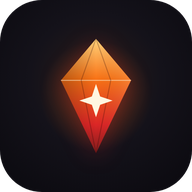
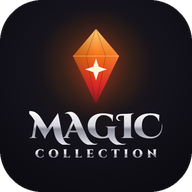
App-Symbol mit Schriftzug „MAGIC COLLECTION“
Claude-Session: https://claude.ai/code/session_01SySje3eLyDo5YNyjijA6wM

diff --git a/public/sw.js b/public/sw.js
@@ -12,7 +12,7 @@
 // Karten- und Preisdaten werden bewusst NICHT dauerhaft gecacht, da sie
 // sich ändern – die App ist online gedacht, offline gibt es einen Hinweis.
 
-const CACHE = "magic-collection-v4"; // v4: neues Logo
+const CACHE = "magic-collection-v5"; // v5: Logo mit Schriftzug
 const OFFLINE_URL = "/offline.html";
 const PRECACHE = [OFFLINE_URL, "/icon-192.png", "/icon-512.png"];
 
